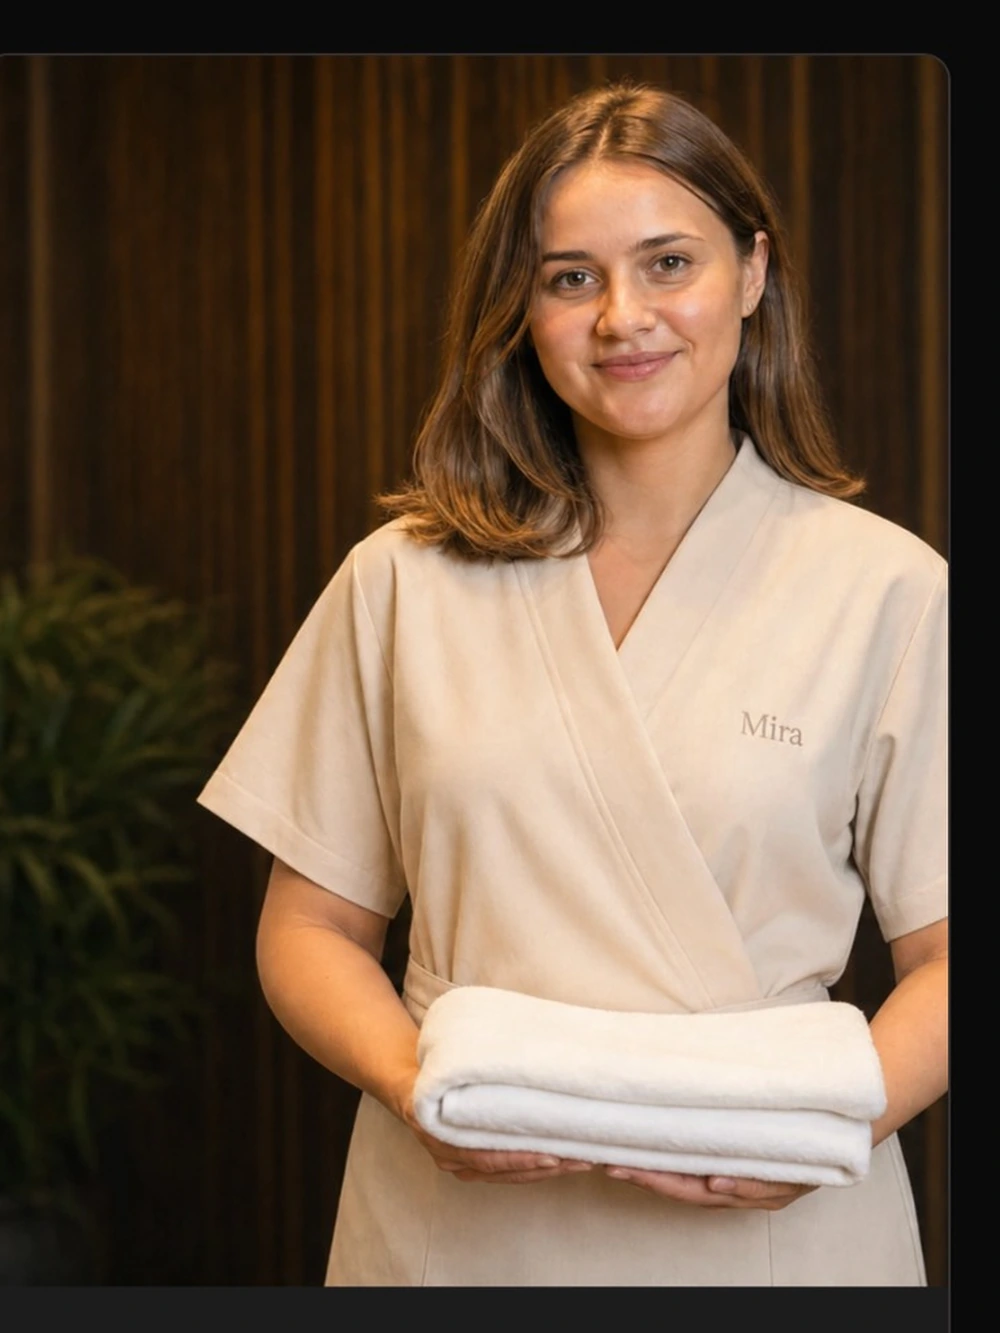
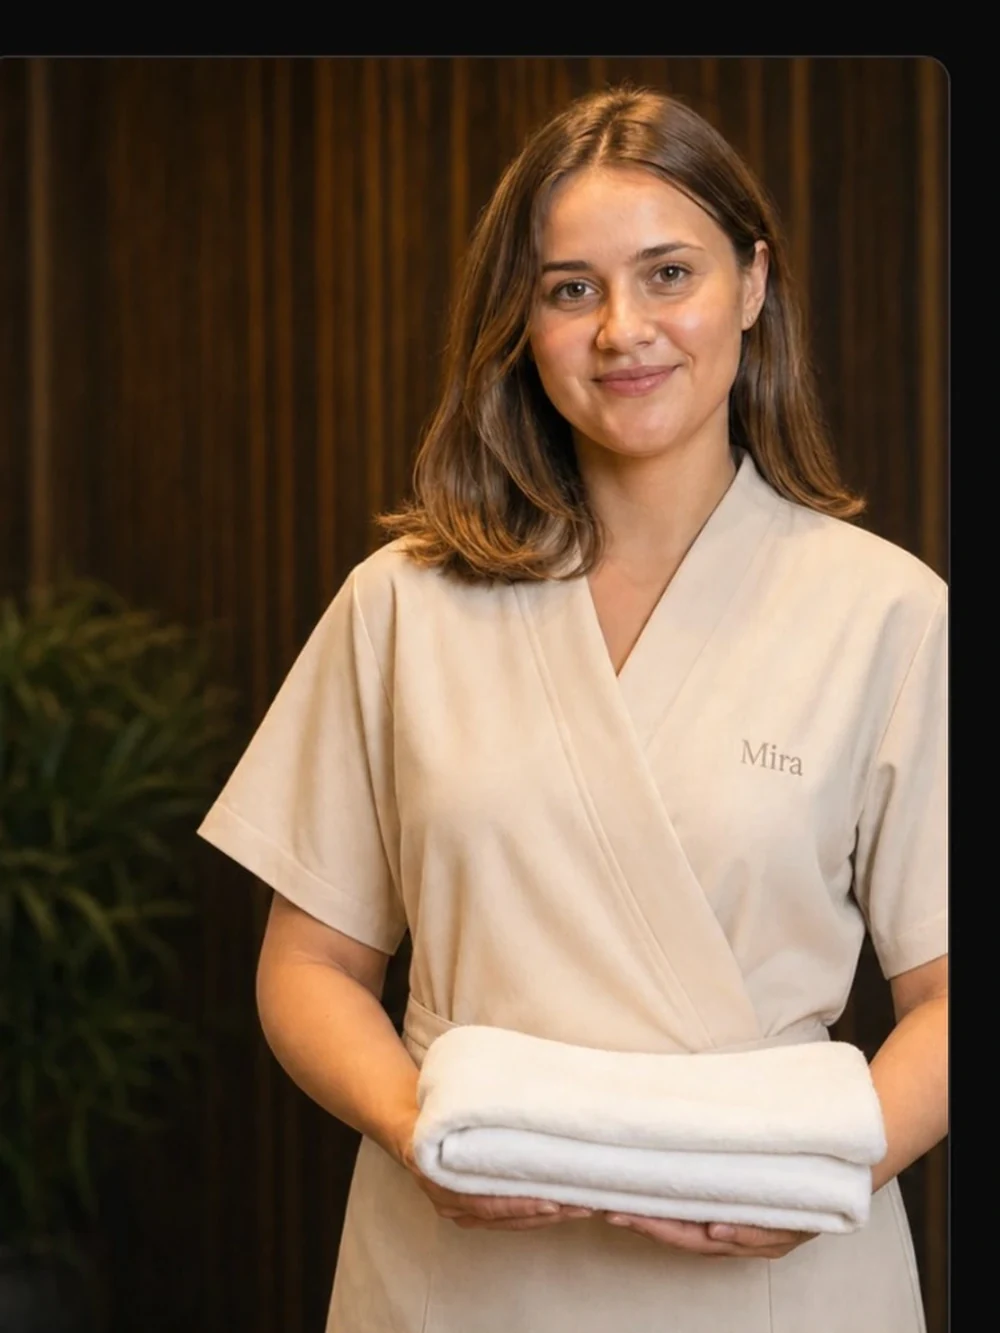
Fix Mira team card image crop and uniform media block sizing.
Crop gray band from anna.webp and make gallery fill card media containers.

diff --git a/static/css/components.css b/static/css/components.css
@@ -375,12 +375,17 @@
 
 .svc-card__media {
   position: relative;
-  aspect-ratio: 3/4;
+  aspect-ratio: 3 / 4;
   overflow: hidden;
+  background: #0a0810;
 }
 
 .svc-card__media .media-gallery {
-  position: relative;
+  position: absolute;
+  inset: 0;
+  width: 100%;
+  height: 100%;
+  aspect-ratio: auto;
   z-index: 3;
 }
 
@@ -486,10 +491,18 @@
 
 .team-card__media {
   position: relative;
-  aspect-ratio: 3/4;
+  aspect-ratio: 3 / 4;
   overflow: hidden;
   margin-bottom: 16px;
-  background: var(--color-card);
+  background: #0a0810;
+}
+
+.team-card__media .media-gallery {
+  position: absolute;
+  inset: 0;
+  width: 100%;
+  height: 100%;
+  aspect-ratio: auto;
 }
 
 .team-card__body {
